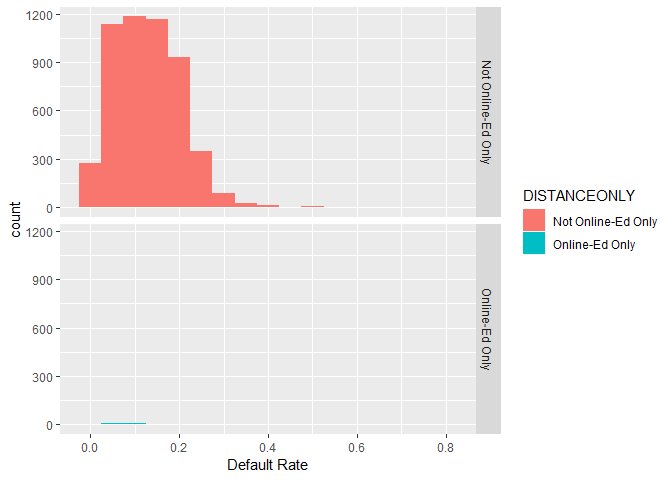
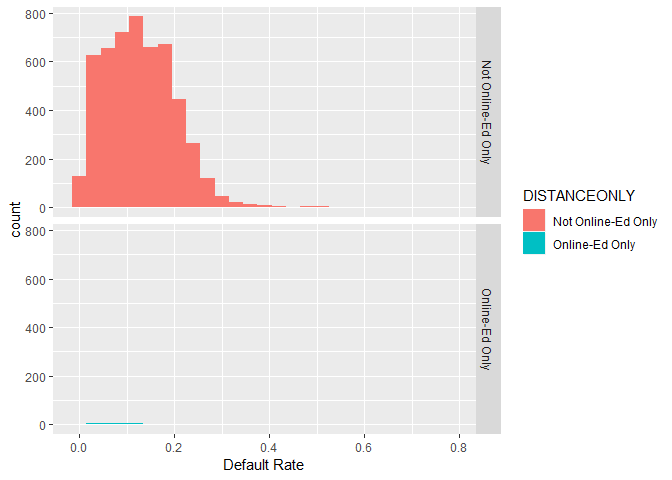
Add Strategy 2 for data wrangling. Split by-CONTROL plots to individual code chunks and add explanation.

diff --git a/StudentLoandDefaults_scorecard.md b/StudentLoandDefaults_scorecard.md
@@ -11,6 +11,10 @@ output:
 
 Student loan debt (SLD) total in the US reached a staggering number in 1.5 trillion dollars, borrowed by 44 million people. It is 2.4 times larger than the total of credit card debt.  The SLD total in 2008 was 640 billion dollars [which ballooned to 1.2 trillion by 2015](https://www.politifact.com/truth-o-meter/statements/2015/aug/14/jeb-bush/jeb-bush-student-loan-debt-has-doubled-under-obama/).  
 
+While [the return on investment of higher education (HED) is well known and documented] (https://college-education.procon.org/), student loans accumulated for financing higher education are reported as societal issues such as [reasons for divorce](https://www.yahoo.com/amphtml/finance/news/millennial-marriages-crumbling-student-loan-debt-134145853.html), financial dependence on parents, and lack of home ownership observed in Gen-Y.  
+
+In order for an student to be able to pay off HED loans, the loan total should not exceed his/her annual income from gainful employment the HED would provide.  For unfortunate some, this rule of thumb was violated and loan defaults resulted. 
+
 The US Department of Education publishes the College Scorecard data to help the public to make informed decisions about investments in higher education.  The data features large amount of metrics including default rates and is organized by academic year. In this report, we will focus on the 2014-15 scorecard data.  The goals of this report are:
 
 - Explore the data to ascertain some trends the data is telling us.
@@ -36,7 +40,7 @@ scorecard1415 <- tbl_df(scorecard1415)
 ***
 # Data Wrangling
 
-## Strategy
+## Strategy 1
 
 - Clean up the data set.
     - Select variables relevant to this study.
@@ -48,7 +52,12 @@ scorecard1415 <- tbl_df(scorecard1415)
 
 ## Select relevant variables 
 
-As there are a large number (1700+) of variables in `scorecard` data set, the [data element list](https://collegescorecard.ed.gov/assets/CollegeScorecardDataDictionary.xlsx) has been reviewed. Using the [data documentation](https://collegescorecard.ed.gov/assets/FullDataDocumentation.pdf) as guidelines, the variables are selected in the following code block:
+Two issues with the data set are noticed immediately. 
+
+- First, the number of variables/features is overwhelmingly large at 1700+.
+- Secondly, many rows have missing values. 
+
+To address the first issue, the [data element list](https://collegescorecard.ed.gov/assets/CollegeScorecardDataDictionary.xlsx) has been reviewed. Using the [data documentation](https://collegescorecard.ed.gov/assets/FullDataDocumentation.pdf) as guidelines, the variables are selected in the following code block:
 
 
 
@@ -95,13 +104,12 @@ The `CDR3` column reports the default rate. Hence, the observations with missing
 sc1415 <- sc1415.all %>% filter(!is.na(CDR3))
 ```
 
-It's observed that missing values are rather concentrated on the schools classified as stand alone graduate institutions. Let's remove them from the analysis.
+As for missing values, tt's observed that they are rather concentrated on the schools classified as stand alone graduate institutions. Let's remove them from the analysis.
 
 
 ```r
 sc1415 <- sc1415 %>% filter(PREDDEG!=4)
 ```
-
 
 ## Missing Values
 
@@ -154,24 +162,23 @@ naProportion[naProportion<.1]
 ##       0.003580881       0.003580881       0.000000000
 ```
 
-
 Let's confirm that all `CDR3` and `CDR3_DENOM` values are numeric.
 
 
 ```r
-sum(!is.numeric(sc1415$CDR3))
+!is.numeric(sc1415$CDR3)
 ```
 
 ```
-## [1] 0
+## [1] FALSE
 ```
 
 ```r
-sum(!is.numeric(sc1415$CDR3_DENOM))
+!is.numeric(sc1415$CDR3_DENOM)
 ```
 
 ```
-## [1] 0
+## [1] FALSE
 ```
 
 ## Variable selection
@@ -232,6 +239,26 @@ summary(sc1415.net$CDR3)
 ##   0.000   0.069   0.125   0.129   0.182   0.789
 ```
 
+## Strategy 2
+
+Stragegy 1 left us with a few number of numeric variables. A quick exploratory plots show no so strong associations between them and default rates.
+
+Armed with some knowledge Stragety 1 revealed, let's take a different approach:
+
+- Remove all rows with missing `CDR3` values.  It reduces the # of variables from 7100+ to 1700+.
+- Remove stand-alone gradudate institutions and those unclassified (`PREDDEG == 0 or 4`).
+_ Remove all columns with missing values. 
+
+
+```r
+sc1415.cdr3 = scorecard1415 %>% filter(!is.na(CDR3))
+sc1415.cdr3 = sc1415.cdr3 %>% filter(!(PREDDEG == 0 | PREDDEG == 4))
+sc1415.cdr3 <- sc1415.cdr3[,colSums(is.na(sc1415.cdr3))==0]
+```
+
+This results in 6018 rows and 247 columns. This data frame is bigger than one resulted from Strategy 1, its features are mostly reporting fields of study (Classification of Instructional Programs). We will move ahead with the Strategy 1' data frame `sc1415.net`, but keep `sc1415.cdr3` for complimentary data if needed.
+
+***
 
 ## Converting to factor variables
 
@@ -445,7 +472,7 @@ sc1415.net %>% group_by(CONTROL) %>% summarize(mean(CDR3),sd(CDR3))
 ## 3 Private for-profit       0.150      0.0663
 ```
 
-
+## Plotting
 
 Let's draw some histograms.
 
@@ -453,7 +480,7 @@ Let's draw some histograms.
 
 ```r
 ggplot(sc1415.net,aes(x=CDR3)) + 
-   geom_histogram(binwidth=.05,alpha=.5) +
+   geom_histogram(binwidth=.03,alpha=.5) +
    xlab("Default Rate")
 ```
 
@@ -461,7 +488,7 @@ ggplot(sc1415.net,aes(x=CDR3)) +
 
 ```r
 ggplot(sc1415.net,aes(x=CDR3, fill=CONTROL)) + 
-   geom_histogram(binwidth=.05) +
+   geom_histogram(binwidth=.03) +
    facet_grid(CONTROL~.) +
    xlab("Default Rate")
 ```
@@ -470,7 +497,7 @@ ggplot(sc1415.net,aes(x=CDR3, fill=CONTROL)) +
 
 ```r
 ggplot(sc1415.net,aes(x=CDR3, fill=PREDDEG)) + 
-   geom_histogram(binwidth=.05) +
+   geom_histogram(binwidth=.03) +
    facet_grid(PREDDEG~.) +
    xlab("Default Rate")
 ```
@@ -479,7 +506,7 @@ ggplot(sc1415.net,aes(x=CDR3, fill=PREDDEG)) +
 
 ```r
 ggplot(sc1415.net,aes(x=CDR3, fill=DISTANCEONLY)) + 
-   geom_histogram(binwidth=.05) +
+   geom_histogram(binwidth=.03) +
    facet_grid(DISTANCEONLY~.) +
    xlab("Default Rate")
 ```
@@ -488,7 +515,7 @@ ggplot(sc1415.net,aes(x=CDR3, fill=DISTANCEONLY)) +
 
 ```r
 ggplot(sc1415.net,aes(x=CDR3, fill=REGION)) + 
-   geom_histogram(binwidth=.05) +
+   geom_histogram(binwidth=.03) +
    facet_grid(REGION~.) +
    xlab("Default Rate")
 ```
@@ -498,7 +525,7 @@ ggplot(sc1415.net,aes(x=CDR3, fill=REGION)) +
 
 ## Scatter Plots
 
-Numeric variables vs default rate by school ownership type
+#### Median debt vs default rate for students who completed by school ownership type
 
 
 ```r
@@ -507,14 +534,18 @@ Numeric variables vs default rate by school ownership type
 ggplot(sc1415.net,aes(x=GRAD_DEBT_MDN,y=CDR3, col=CONTROL)) +
    geom_point(alpha=.3) +
    facet_grid(CONTROL~.) +
-   geom_smooth(col="black")
+   geom_smooth(col="black", method="lm") +
+   xlab("The median debt for students who have completed") +
+   ylab("Default Rate") 
 ```
 
-```
-## `geom_smooth()` using method = 'gam' and formula 'y ~ s(x, bs = "cs")'
-```
+![](StudentLoandDefaults_scorecard_files/figure-html/unnamed-chunk-7-1.png)<!-- -->
 
-![](StudentLoandDefaults_scorecard_files/figure-html/unnamed-chunk-6-1.png)<!-- -->
+For public schools, the higher default rates are more concentrated in the lower median debt brackets.  It is interesting to note that median debt has no association with default rate for for-profit private schools.
+
+
+#### Median debt vs default rate for students who did not complete by school ownership type
+
 
 ```r
 # The median debt for students who have withdrawn vs default rate by school ownership
@@ -522,14 +553,17 @@ ggplot(sc1415.net,aes(x=GRAD_DEBT_MDN,y=CDR3, col=CONTROL)) +
 ggplot(sc1415.net,aes(y=CDR3,x=WDRAW_DEBT_MDN, col=CONTROL)) +
    geom_point(alpha=.3) +
    facet_grid(CONTROL~.) +
-   geom_smooth(col="black")
+   geom_smooth(col="black", method="lm") +
+   xlab("The median debt for students who have not completed") +
+   ylab("Default Rate")
 ```
 
-```
-## `geom_smooth()` using method = 'gam' and formula 'y ~ s(x, bs = "cs")'
-```
+![](StudentLoandDefaults_scorecard_files/figure-html/unnamed-chunk-8-1.png)<!-- -->
 
-![](StudentLoandDefaults_scorecard_files/figure-html/unnamed-chunk-6-2.png)<!-- -->
+The same trends are observed between students who completed programs or not.
+
+#### First generation vs default rate by school ownership type
+
 
 ```r
 # Percentage first-generation students vs default rate by school ownership
@@ -537,14 +571,18 @@ ggplot(sc1415.net,aes(y=CDR3,x=WDRAW_DEBT_MDN, col=CONTROL)) +
 ggplot(sc1415.net,aes(y=CDR3,x=PAR_ED_PCT_1STGEN, col=CONTROL)) +
    geom_point(alpha=.3) +
    facet_grid(CONTROL~.) +
-   geom_smooth(col="black")
+   geom_smooth(col="black", method="lm") +
+   xlab("Percentage first-generation students") +
+   ylab("Default Rate")
 ```
 
-```
-## `geom_smooth()` using method = 'gam' and formula 'y ~ s(x, bs = "cs")'
-```
+![](StudentLoandDefaults_scorecard_files/figure-html/unnamed-chunk-9-1.png)<!-- -->
 
-![](StudentLoandDefaults_scorecard_files/figure-html/unnamed-chunk-6-3.png)<!-- -->
+There is a positive correlation between default rate and proportion of students who reported as first generation in getting higher education. For-profit private schools seem to have a higher mean of the proportions. 
+
+
+#### Federal student oan vs default rate by school ownership type
+
 
 ```r
 # Percent of all undergraduate students receiving a federal student loan
@@ -552,16 +590,19 @@ ggplot(sc1415.net,aes(y=CDR3,x=PAR_ED_PCT_1STGEN, col=CONTROL)) +
 ggplot(sc1415.net,aes(y=CDR3,x=PCTFLOAN, col=CONTROL)) +
    geom_point(alpha=.3) +
    facet_grid(CONTROL~.) + 
-   geom_smooth(col="black")
+   geom_smooth(col="black", method="lm") +
+   xlab("Percent of all UG students receiving a federal student loan") +
+   ylab("Default Rate")
 ```
 
-```
-## `geom_smooth()` using method = 'gam' and formula 'y ~ s(x, bs = "cs")'
-```
+![](StudentLoandDefaults_scorecard_files/figure-html/unnamed-chunk-10-1.png)<!-- -->
 
-![](StudentLoandDefaults_scorecard_files/figure-html/unnamed-chunk-6-4.png)<!-- -->
+For-profit private institutions report higher fed loan participation rates. Yet, their default rates don't have any correlation with the participation rates.  
 
-A numeric variable XYZ vs default rate by predominant degree type
+In the following plots facetting based on degree type or region, the correlation between first generation and default rate repeats. Students who completed bachelor's degree programs contributed to higher default rates when facing higher loan debt (positive correlation).
+
+Across regions, simiar regression lines are drawn.  No regions do better or worse when it comes to default rates.
+
 
 
 ```r
@@ -570,14 +611,11 @@ A numeric variable XYZ vs default rate by predominant degree type
 ggplot(sc1415.net,aes(y=CDR3,x=GRAD_DEBT_MDN, col=PREDDEG)) +
    geom_point(alpha=.3) +
    facet_grid(PREDDEG~.) +
-   geom_smooth(col="black")
+   geom_smooth(col="black", method="lm") +
+   ylab("Default Rate")
 ```
 
-```
-## `geom_smooth()` using method = 'gam' and formula 'y ~ s(x, bs = "cs")'
-```
-
-![](StudentLoandDefaults_scorecard_files/figure-html/unnamed-chunk-7-1.png)<!-- -->
+![](StudentLoandDefaults_scorecard_files/figure-html/unnamed-chunk-11-1.png)<!-- -->
 
 ```r
 # The median debt for students who have withdrawn vs default rate by degree type
@@ -585,14 +623,11 @@ ggplot(sc1415.net,aes(y=CDR3,x=GRAD_DEBT_MDN, col=PREDDEG)) +
 ggplot(sc1415.net,aes(y=CDR3,x=WDRAW_DEBT_MDN, col=PREDDEG)) +
    geom_point(alpha=.3) +
    facet_grid(PREDDEG~.) +
-   geom_smooth(col="black")
+   geom_smooth(col="black", method="lm") +
+   ylab("Default Rate")
 ```
 
-```
-## `geom_smooth()` using method = 'gam' and formula 'y ~ s(x, bs = "cs")'
-```
-
-![](StudentLoandDefaults_scorecard_files/figure-html/unnamed-chunk-7-2.png)<!-- -->
+![](StudentLoandDefaults_scorecard_files/figure-html/unnamed-chunk-11-2.png)<!-- -->
 
 ```r
 # Percentage first-generation students vs default rate by degree type
@@ -603,17 +638,14 @@ ggplot(sc1415.net,aes(y=CDR3,x=WDRAW_DEBT_MDN, col=PREDDEG)) +
 ggplot(sc1415.net,aes(y=CDR3,x=PAR_ED_PCT_1STGEN, col=PREDDEG)) +
    geom_point(alpha=.3) +
    facet_grid(PREDDEG~.) +
-   geom_smooth(col="black")
+   geom_smooth(col="black", method="lm") + 
+   ylab("Default Rate")
 ```
 
-```
-## `geom_smooth()` using method = 'gam' and formula 'y ~ s(x, bs = "cs")'
-```
-
-![](StudentLoandDefaults_scorecard_files/figure-html/unnamed-chunk-7-3.png)<!-- -->
+![](StudentLoandDefaults_scorecard_files/figure-html/unnamed-chunk-11-3.png)<!-- -->
 
 
-A numeric variable XYZ vs default rate by region
+Numeric variables vs default rate by region.  
 
 
 ```r
@@ -622,14 +654,10 @@ A numeric variable XYZ vs default rate by region
 ggplot(sc1415.net,aes(y=CDR3,x=GRAD_DEBT_MDN, col=REGION)) +
    geom_point(alpha=.3) +
    facet_grid(REGION~.) +
-   geom_smooth(col="black")
+   geom_smooth(col="black", method="lm")
 ```
 
-```
-## `geom_smooth()` using method = 'gam' and formula 'y ~ s(x, bs = "cs")'
-```
-
-![](StudentLoandDefaults_scorecard_files/figure-html/unnamed-chunk-8-1.png)<!-- -->
+![](StudentLoandDefaults_scorecard_files/figure-html/unnamed-chunk-12-1.png)<!-- -->
 
 ```r
 # The median debt for students who have withdrawn vs default rate by region
@@ -637,14 +665,10 @@ ggplot(sc1415.net,aes(y=CDR3,x=GRAD_DEBT_MDN, col=REGION)) +
 ggplot(sc1415.net,aes(y=CDR3,x=WDRAW_DEBT_MDN, col=REGION)) +
    geom_point(alpha=.3) +
    facet_grid(REGION~.) +
-   geom_smooth(col="black")
+   geom_smooth(col="black", method="lm")
 ```
 
-```
-## `geom_smooth()` using method = 'gam' and formula 'y ~ s(x, bs = "cs")'
-```
-
-![](StudentLoandDefaults_scorecard_files/figure-html/unnamed-chunk-8-2.png)<!-- -->
+![](StudentLoandDefaults_scorecard_files/figure-html/unnamed-chunk-12-2.png)<!-- -->
 
 ```r
 # Percentage first-generation students vs default rate by region
@@ -655,11 +679,7 @@ ggplot(sc1415.net,aes(y=CDR3,x=WDRAW_DEBT_MDN, col=REGION)) +
 ggplot(sc1415.net,aes(y=CDR3,x=PAR_ED_PCT_1STGEN, col=REGION)) +
    geom_point(alpha=.3) +
    facet_grid(REGION~.) +
-   geom_smooth(col="black")
+   geom_smooth(col="black", method="lm")
 ```
 
-```
-## `geom_smooth()` using method = 'gam' and formula 'y ~ s(x, bs = "cs")'
-```
-
-![](StudentLoandDefaults_scorecard_files/figure-html/unnamed-chunk-8-3.png)<!-- -->
+![](StudentLoandDefaults_scorecard_files/figure-html/unnamed-chunk-12-3.png)<!-- -->
